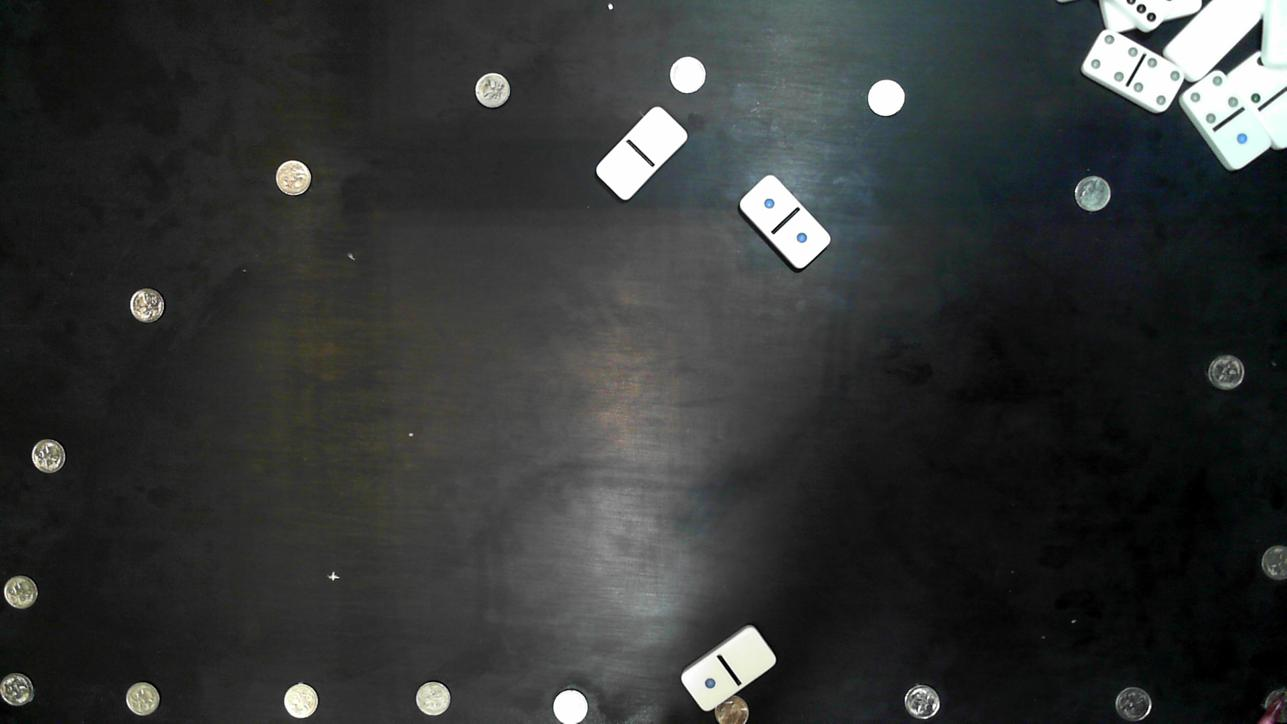
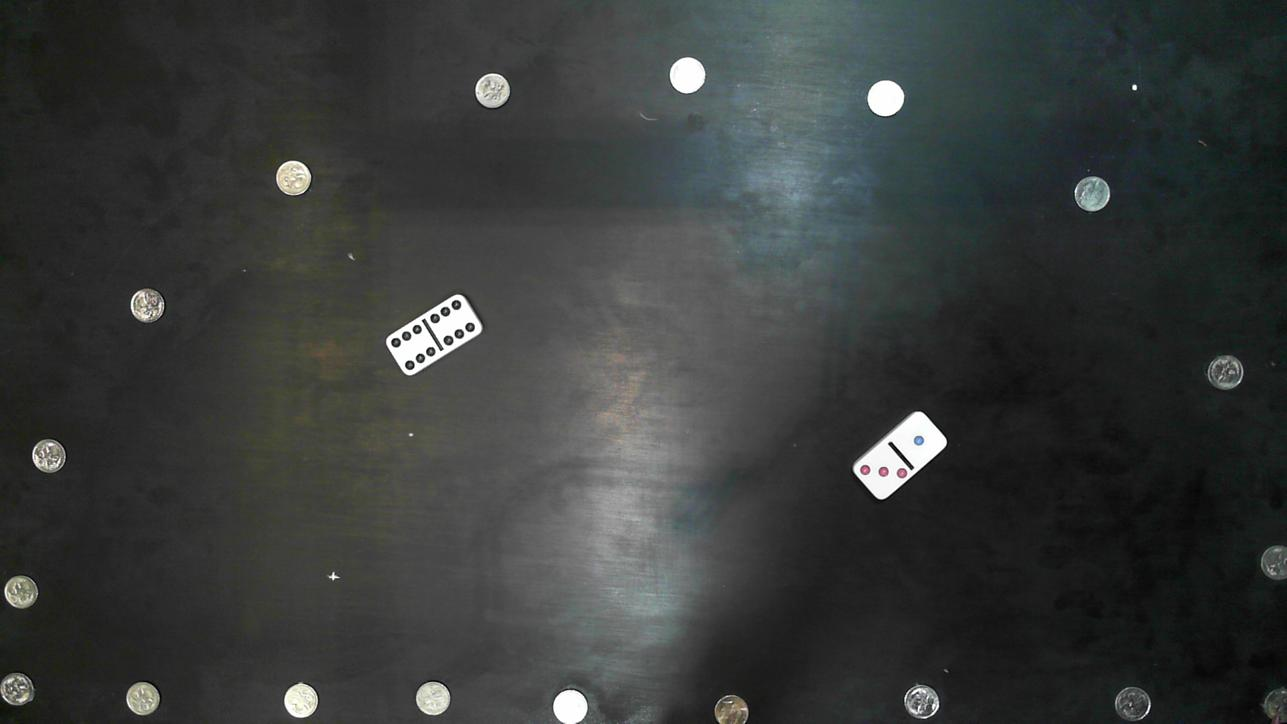
flipping works, but intial dectection is off by 90, sometimes

diff --git a/get_the_D/make_bag_o_D.m b/get_the_D/make_bag_o_D.m
@@ -31,6 +31,9 @@ for i = 1:length(face_data(:,1))
         tmp = face_data(i,1);
         face_data(i,1) = face_data(i,2);
         face_data(i,2) = tmp;
+        before = face_data(i, 5)
+        face_data(i, 5) = mod((face_data(i, 5)+180),360);
+        after = face_data(i, 5)
     end
 end
 face_data = sortrows(face_data,1);

diff --git a/get_the_D/get_polygon.m b/get_the_D/get_polygon.m
@@ -21,6 +21,12 @@ if (theta < 0)
     theta = 360 +theta;
 end
 
+if (mod(theta,45) == 0)
+    theta = theta +1
+end
+
+m = tand(theta)
+
 off = y - m*x;
 
 %% plot centerline to check orientation
